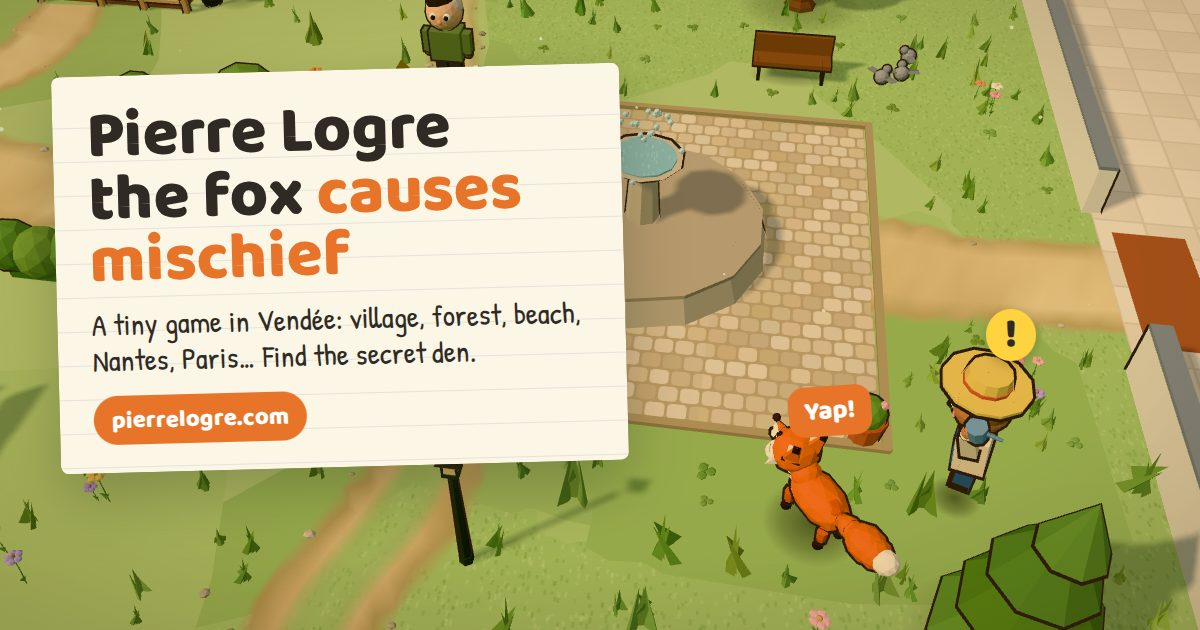
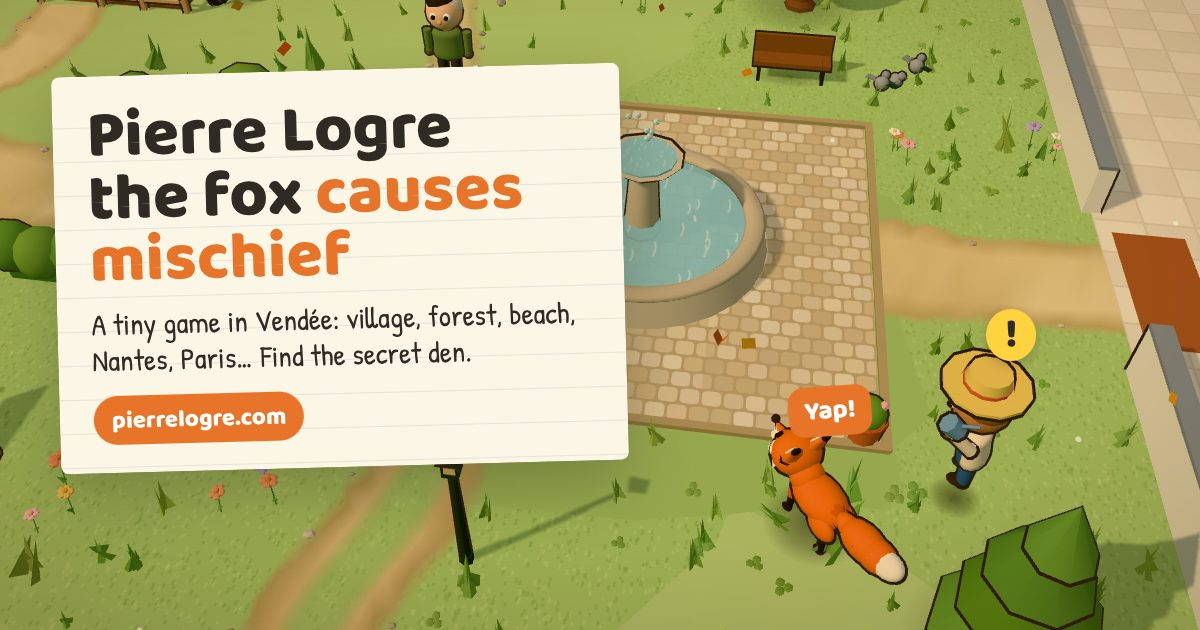
Images de partage regénérées avec le renard actuel ; og.py compatible CSP
Claude-Session: https://claude.ai/code/session_01J5462rMqNoYiYJQXGaPQ9s

diff --git a/tests/og.py b/tests/og.py
@@ -16,9 +16,9 @@ async def main():
         b = await p.chromium.launch(args=["--use-gl=angle", "--use-angle=swiftshader", "--enable-unsafe-swiftshader"])
         pg = await b.new_page(viewport={"width": 1200, "height": 630})
         await pg.goto("http://127.0.0.1:8766/#og", timeout=120000)
-        await pg.wait_for_function("window.__foxReady===true", timeout=120000); await pg.wait_for_timeout(6000)
-        bang = await pg.evaluate("__fox.screenOf(__fox.gardener)")
-        foxp = await pg.evaluate("__fox.screenOf(__fox.fox)")
+        await pg.wait_for_function("() => window.__foxReady===true", timeout=120000); await pg.wait_for_timeout(6000)
+        bang = await pg.evaluate("() => __fox.screenOf(__fox.gardener)")
+        foxp = await pg.evaluate("() => __fox.screenOf(__fox.fox)")
         bg = os.path.join(WWW, '_og_bg.png'); await pg.screenshot(path=bg)
         for lang, (name, tag, sub) in CARD.items():
             css = f'''
